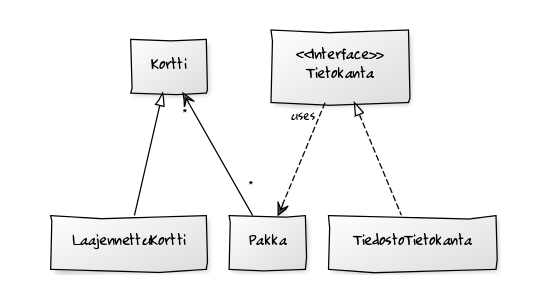
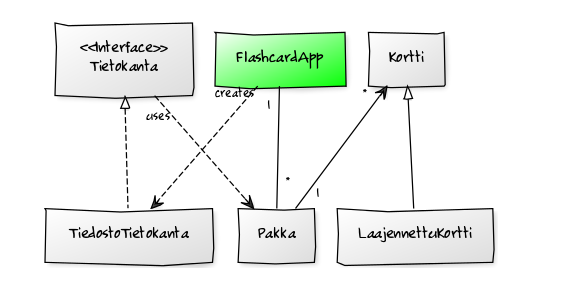
Refaktorointia, luokat alkaa olla kunnoss

diff --git a/FlashcardApp/src/test/java/flashcardapp/domain/PakkaTest.java b/FlashcardApp/src/test/java/flashcardapp/domain/PakkaTest.java
@@ -26,15 +26,19 @@ public class PakkaTest {
         pakka.lisaaKortti(new Kortti("Etu", "Kaanto"));
         assertEquals(1, pakka.pakanKoko());
     }
-
+    
     @Test
-    public void kortinOttoToimiiJaNullPalautetaanKunIndeksiYliKoon() {
+    public void kortinOttoToimii() {
         Kortti kortti = new Kortti("Etu", "Kaanto");
         pakka.lisaaKortti(kortti);
         Kortti palautettu = pakka.getKortti(0);
         assertEquals(kortti, palautettu);
-        palautettu = pakka.getKortti(1);
-        assertEquals(null, palautettu);
+    }
+
+    @Test
+    public void nullPalautetaanKunOtetunKortinIndeksiYliKoon() {
+        Kortti kortti = pakka.getKortti(0);
+        assertEquals(null, kortti);
     }
 
     private void lisaaPakkaanKortit(Kortti[] kortit) {
@@ -43,11 +47,16 @@ public class PakkaTest {
         }
     }
 
-    @Test
-    public void kortitSekoittuvat() {
+    private Kortti[] lisaaPakkaanKasaKortteja() {
         Kortti[] kortit = {new Kortti("a", "b"), new Kortti("c", "d"), new Kortti("e", "f"),
             new Kortti("g", "h"), new Kortti("i", "j"), new Kortti("k", "l"), new Kortti("m", "n")};
         lisaaPakkaanKortit(kortit);
+        return kortit;
+    }
+    
+    @Test
+    public void kortitSekoittuvat() {
+        Kortti[] kortit = lisaaPakkaanKasaKortteja();
         assertEquals(true, Arrays.equals(kortit, pakka.getKortit().toArray()));
         pakka.sekoita(); //oletetaan että jotain on muuttunut 
         assertEquals(false, Arrays.equals(kortit, pakka.getKortit().toArray()));
@@ -55,11 +64,17 @@ public class PakkaTest {
     
     @Test
     public void pakkaPalautuuAlkuperaiseenTilaan() {
-        Kortti[] kortit = {new Kortti("a", "b"), new Kortti("c", "d"), new Kortti("e", "f"),
-            new Kortti("g", "h"), new Kortti("i", "j"), new Kortti("k", "l"), new Kortti("m", "n")};
-        lisaaPakkaanKortit(kortit);
+        Kortti[] kortit = lisaaPakkaanKasaKortteja();
         pakka.sekoita();
         assertEquals(false, Arrays.equals(kortit, pakka.getKortit().toArray()));
+        pakka.palautaAlkutilaan();
+        assertEquals(true, Arrays.equals(kortit, pakka.getKortit().toArray()));
+    }
+    
+    @Test
+    public void sekoittamatonPakkaPysyyMuuttumattomanaKunPalautetaanAlkutilaan() {
+        Kortti[] kortit = lisaaPakkaanKasaKortteja();
+        assertEquals(true, Arrays.equals(kortit, pakka.getKortit().toArray()));
         pakka.palautaAlkutilaan();
         assertEquals(true, Arrays.equals(kortit, pakka.getKortit().toArray()));
     }

diff --git a/FlashcardApp/src/main/java/flashcardapp/database/TiedostoTietokanta.java b/FlashcardApp/src/main/java/flashcardapp/database/TiedostoTietokanta.java
@@ -10,15 +10,25 @@ import java.util.List;
 
 public class TiedostoTietokanta implements Tietokanta {
 
-    public static final String TIEDOSTO = "flashcardapp.db";
+    public static String tiedosto;
 
-    //konstruktori tiedosto.. save as, save, 
+    public TiedostoTietokanta() {
+        this("flashcardapp.db");
+    }
+
+    public TiedostoTietokanta(String tiedosto) {
+        this.tiedosto = tiedosto;
+    }
+    
+    public void setTiedosto(String tiedosto) {
+        this.tiedosto = tiedosto;
+    }
     
     @Override
     public List<Pakka> lataaPakat() {
         List<Pakka> pakat = new ArrayList<>();
 
-        try (FileInputStream fis = new FileInputStream(TIEDOSTO);
+        try (FileInputStream fis = new FileInputStream(tiedosto);
                 ObjectInputStream ois = new ObjectInputStream(fis)) {
             Pakka pakka = (Pakka) ois.readObject();
             while (pakka != null) {
@@ -26,21 +36,21 @@ public class TiedostoTietokanta implements Tietokanta {
                 pakka = (Pakka) ois.readObject();
             }
         } catch (Exception e) {
-            System.out.println("Tiedostokanta poikkeus lataamisessa");
+            System.out.println("Poikkeus pakkojen lataamisessa");
         }
         return pakat;
     }
 
     @Override
     public void tallennaPakat(List<Pakka> pakat) {
-        try (FileOutputStream fos = new FileOutputStream(TIEDOSTO);
+        try (FileOutputStream fos = new FileOutputStream(tiedosto);
                 ObjectOutputStream oos = new ObjectOutputStream(fos)) {
             for (Pakka pakka : pakat) {
                 oos.writeObject(pakka);
             }
             oos.writeObject(null);
         } catch (Exception e) {
-            System.out.println("Tiedostokanta poikkeus tallentamisessa");
+            System.out.println("Poikkeus pakkojen tallentamisessa");
         }
     }
 

diff --git a/FlashcardApp/src/test/java/flashcardapp/database/TiedostoTietokantaTest.java b/FlashcardApp/src/test/java/flashcardapp/database/TiedostoTietokantaTest.java
@@ -48,7 +48,7 @@ public class TiedostoTietokantaTest {
             for (int j = 0; j < a.pakanKoko(); j++) {
                 assertEquals(a.getKortti(j).toString(), b.getKortti(j).toString());
             }
-        }//todo parempi toimiva tarkistus
+        }
         //assertEquals(pakat, luetut) //nope
         //assertEquals(true, Arrays.equals(pakat.toArray(), luetut.toArray())); //nope
     }

diff --git a/FlashcardApp/src/test/java/flashcardapp/domain/LaajennettuKorttiTest.java b/FlashcardApp/src/test/java/flashcardapp/domain/LaajennettuKorttiTest.java
@@ -18,7 +18,7 @@ public class LaajennettuKorttiTest {
         kortti.lisaaTietoa("VIHJE: Se oli valkoinen talvi.");
 
         List<String> tiedot = kortti.getLisatiedot();
-        assertEquals(1, tiedot.size()); //VIHJE siis, ei ehkä paras tapa
+        assertEquals(1, tiedot.size()); //VIHJE siis
         assertTrue(tiedot.get(0).contains("VIHJE:"));
     }
 

diff --git a/FlashcardApp/src/main/java/flashcardapp/util/ListMemento.java b/FlashcardApp/src/main/java/flashcardapp/util/ListMemento.java
@@ -4,7 +4,7 @@ import java.io.Serializable;
 import java.util.ArrayList;
 import java.util.List;
 
-public class ListMemento<E> implements Serializable{
+public class ListMemento<E> implements Serializable {
     private final List<E> tila;
     
     public ListMemento(List<E> tallennettava) {

diff --git a/FlashcardApp/src/main/java/flashcardapp/domain/LaajennettuKortti.java b/FlashcardApp/src/main/java/flashcardapp/domain/LaajennettuKortti.java
@@ -11,7 +11,7 @@ public class LaajennettuKortti extends Kortti {
         lisatiedot = new ArrayList<>();
     }
 
-    public void lisaaTietoa(String tieto) { //nimeäminen
+    public void lisaaTietoa(String tieto) {
         lisatiedot.add(tieto);
     }
     

diff --git a/FlashcardApp/src/main/java/flashcardapp/domain/Pakka.java b/FlashcardApp/src/main/java/flashcardapp/domain/Pakka.java
@@ -39,6 +39,9 @@ public class Pakka implements Iterable<Kortti>, Serializable {
     }
     
     public void palautaAlkutilaan() {
+        if (memento == null) {
+            return;
+        }
         kortit = memento.getAlkutila();
     }
     

diff --git a/FlashcardApp/src/main/java/flashcardapp/domain/Kortti.java b/FlashcardApp/src/main/java/flashcardapp/domain/Kortti.java
@@ -38,7 +38,6 @@ public class Kortti implements Serializable {
         return null;
     }
     
-    //to be removed
     @Override
     public String toString() {
         return etupuoli + " - " + kaantopuoli;

diff --git a/dokumentointi/luokkakaavioYumlkoodi.md b/dokumentointi/luokkakaavioYumlkoodi.md
@@ -1,4 +1,6 @@
-[Kortti]*<-*[Pakka]
+[Kortti]*<-1[Pakka]
 [<<Interface>>;Tietokanta]uses -.->[Pakka]
 [<<Interface>>;Tietokanta]^-.-[TiedostoTietokanta]
 [Kortti]^-[LaajennettuKortti]
+[FlashcardApp{bg:green}]1-*[Pakka]
+[FlashcardApp{bg:green}]creates-.->[TiedostoTietokanta]
